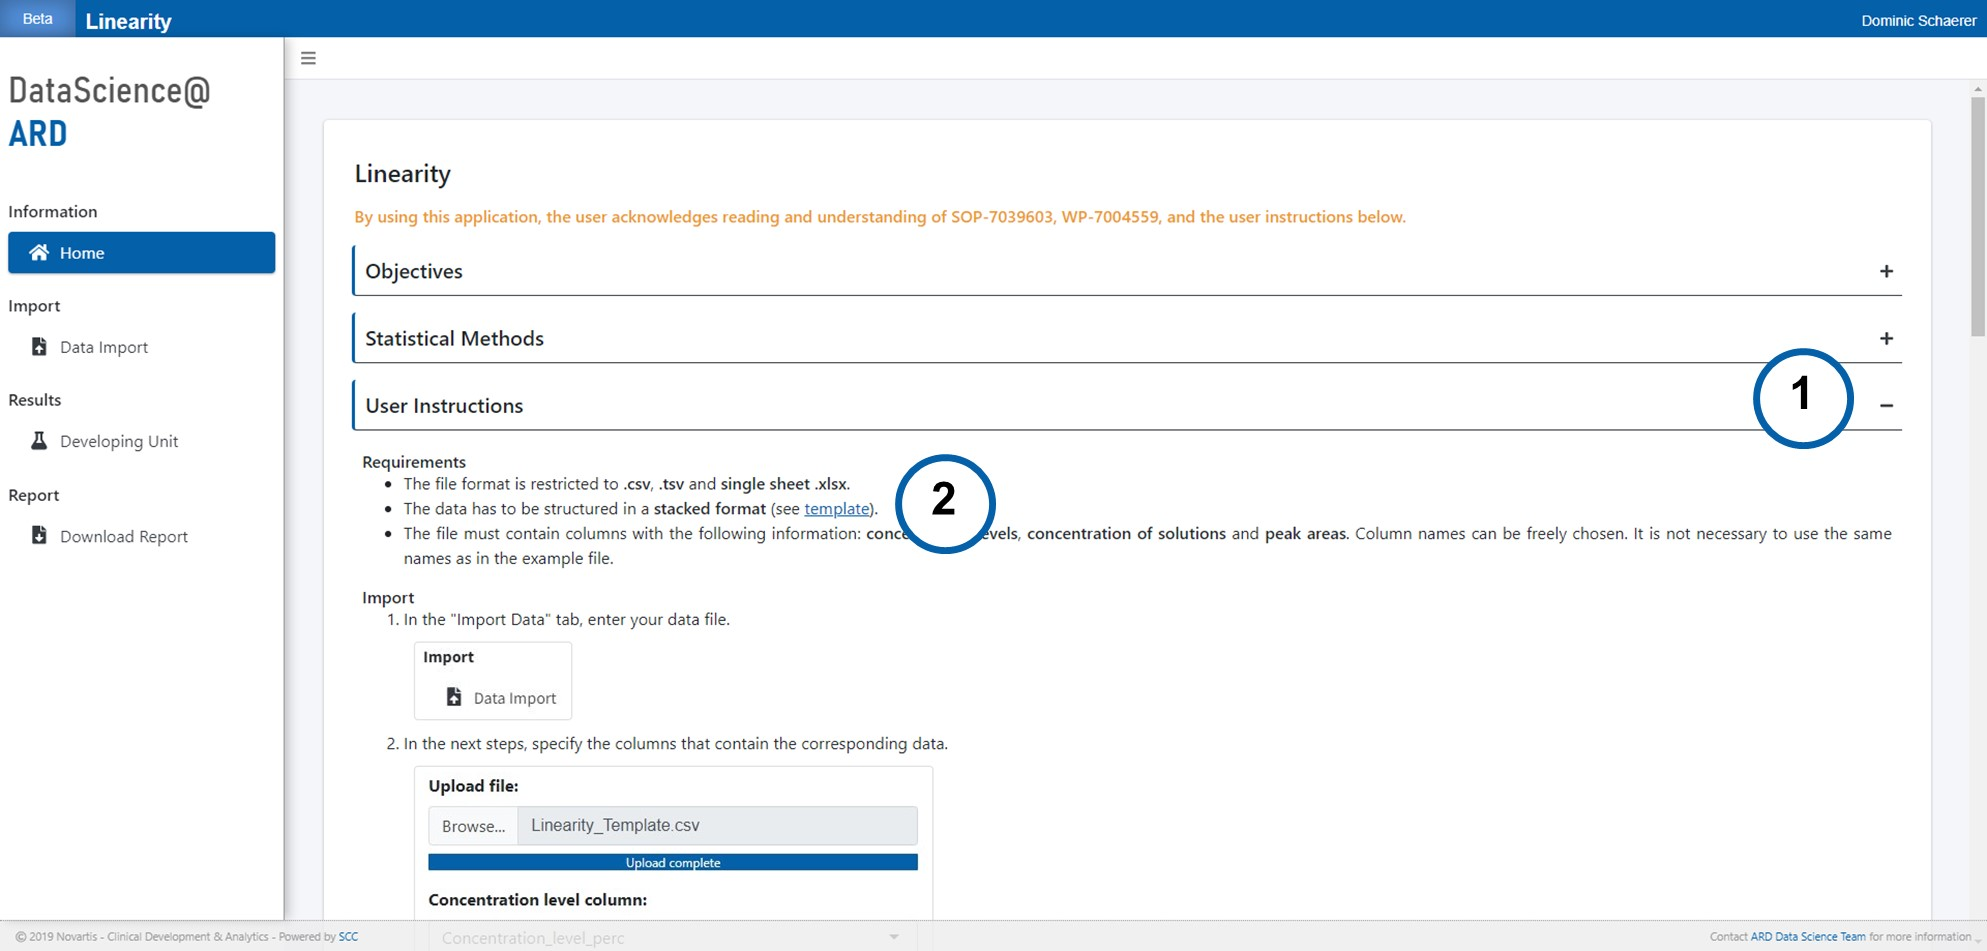
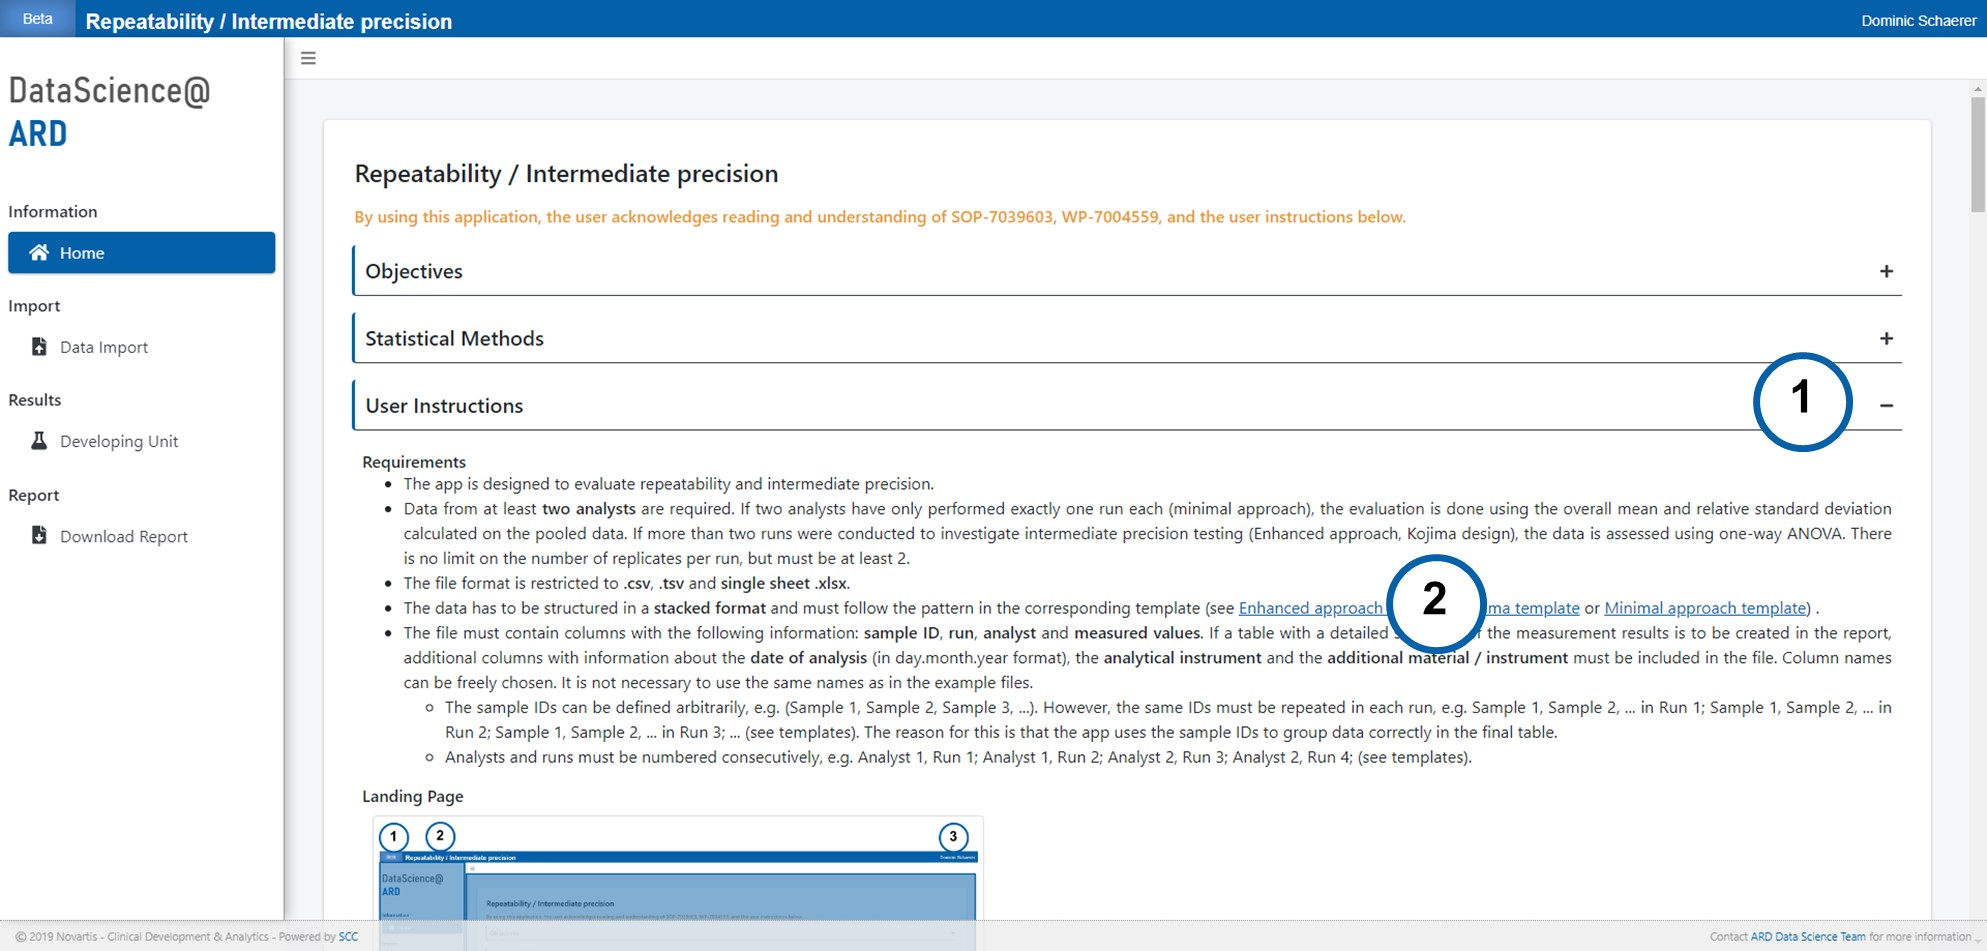
Update user instructions
- Fix incorrectly formatted list
  - Replace outdated picture

diff --git a/www/user_instructions.html b/www/user_instructions.html
@@ -63,10 +63,13 @@
     in the report header.</li>
   <li>Enter x-axis label. X-axis label is displayed in the "Fitted Line Plot" 
     and is used as column header in the "Data Used for Linearity Assessment" 
-    table for the corresponding column.</li>
+    table for the corresponding column. Labeling of the x-axis varies depending 
+    on the type of analysis conducted. For instance, in chromatographic impurity 
+    analysis, it may be labeled as "mg/mL" or "μg/mL".</li>
   <li>Enter y-axis label. Y-axis label is displayed in the "Fitted Line Plot" 
     and is used as column header in the "Data Used for Linearity Assessment" 
-    table for the corresponding column.</li>
+    table for the corresponding column. The y-axis label denotes the response 
+    of the analyte, for example, "mAU/min".</li>
   <li>Enter reference concentration. The reference concentration is 
     displayed in the "Fitted Line Plot", provided it is not 0. If reference 
     concentration is provided, the intercept and the residual standard 
